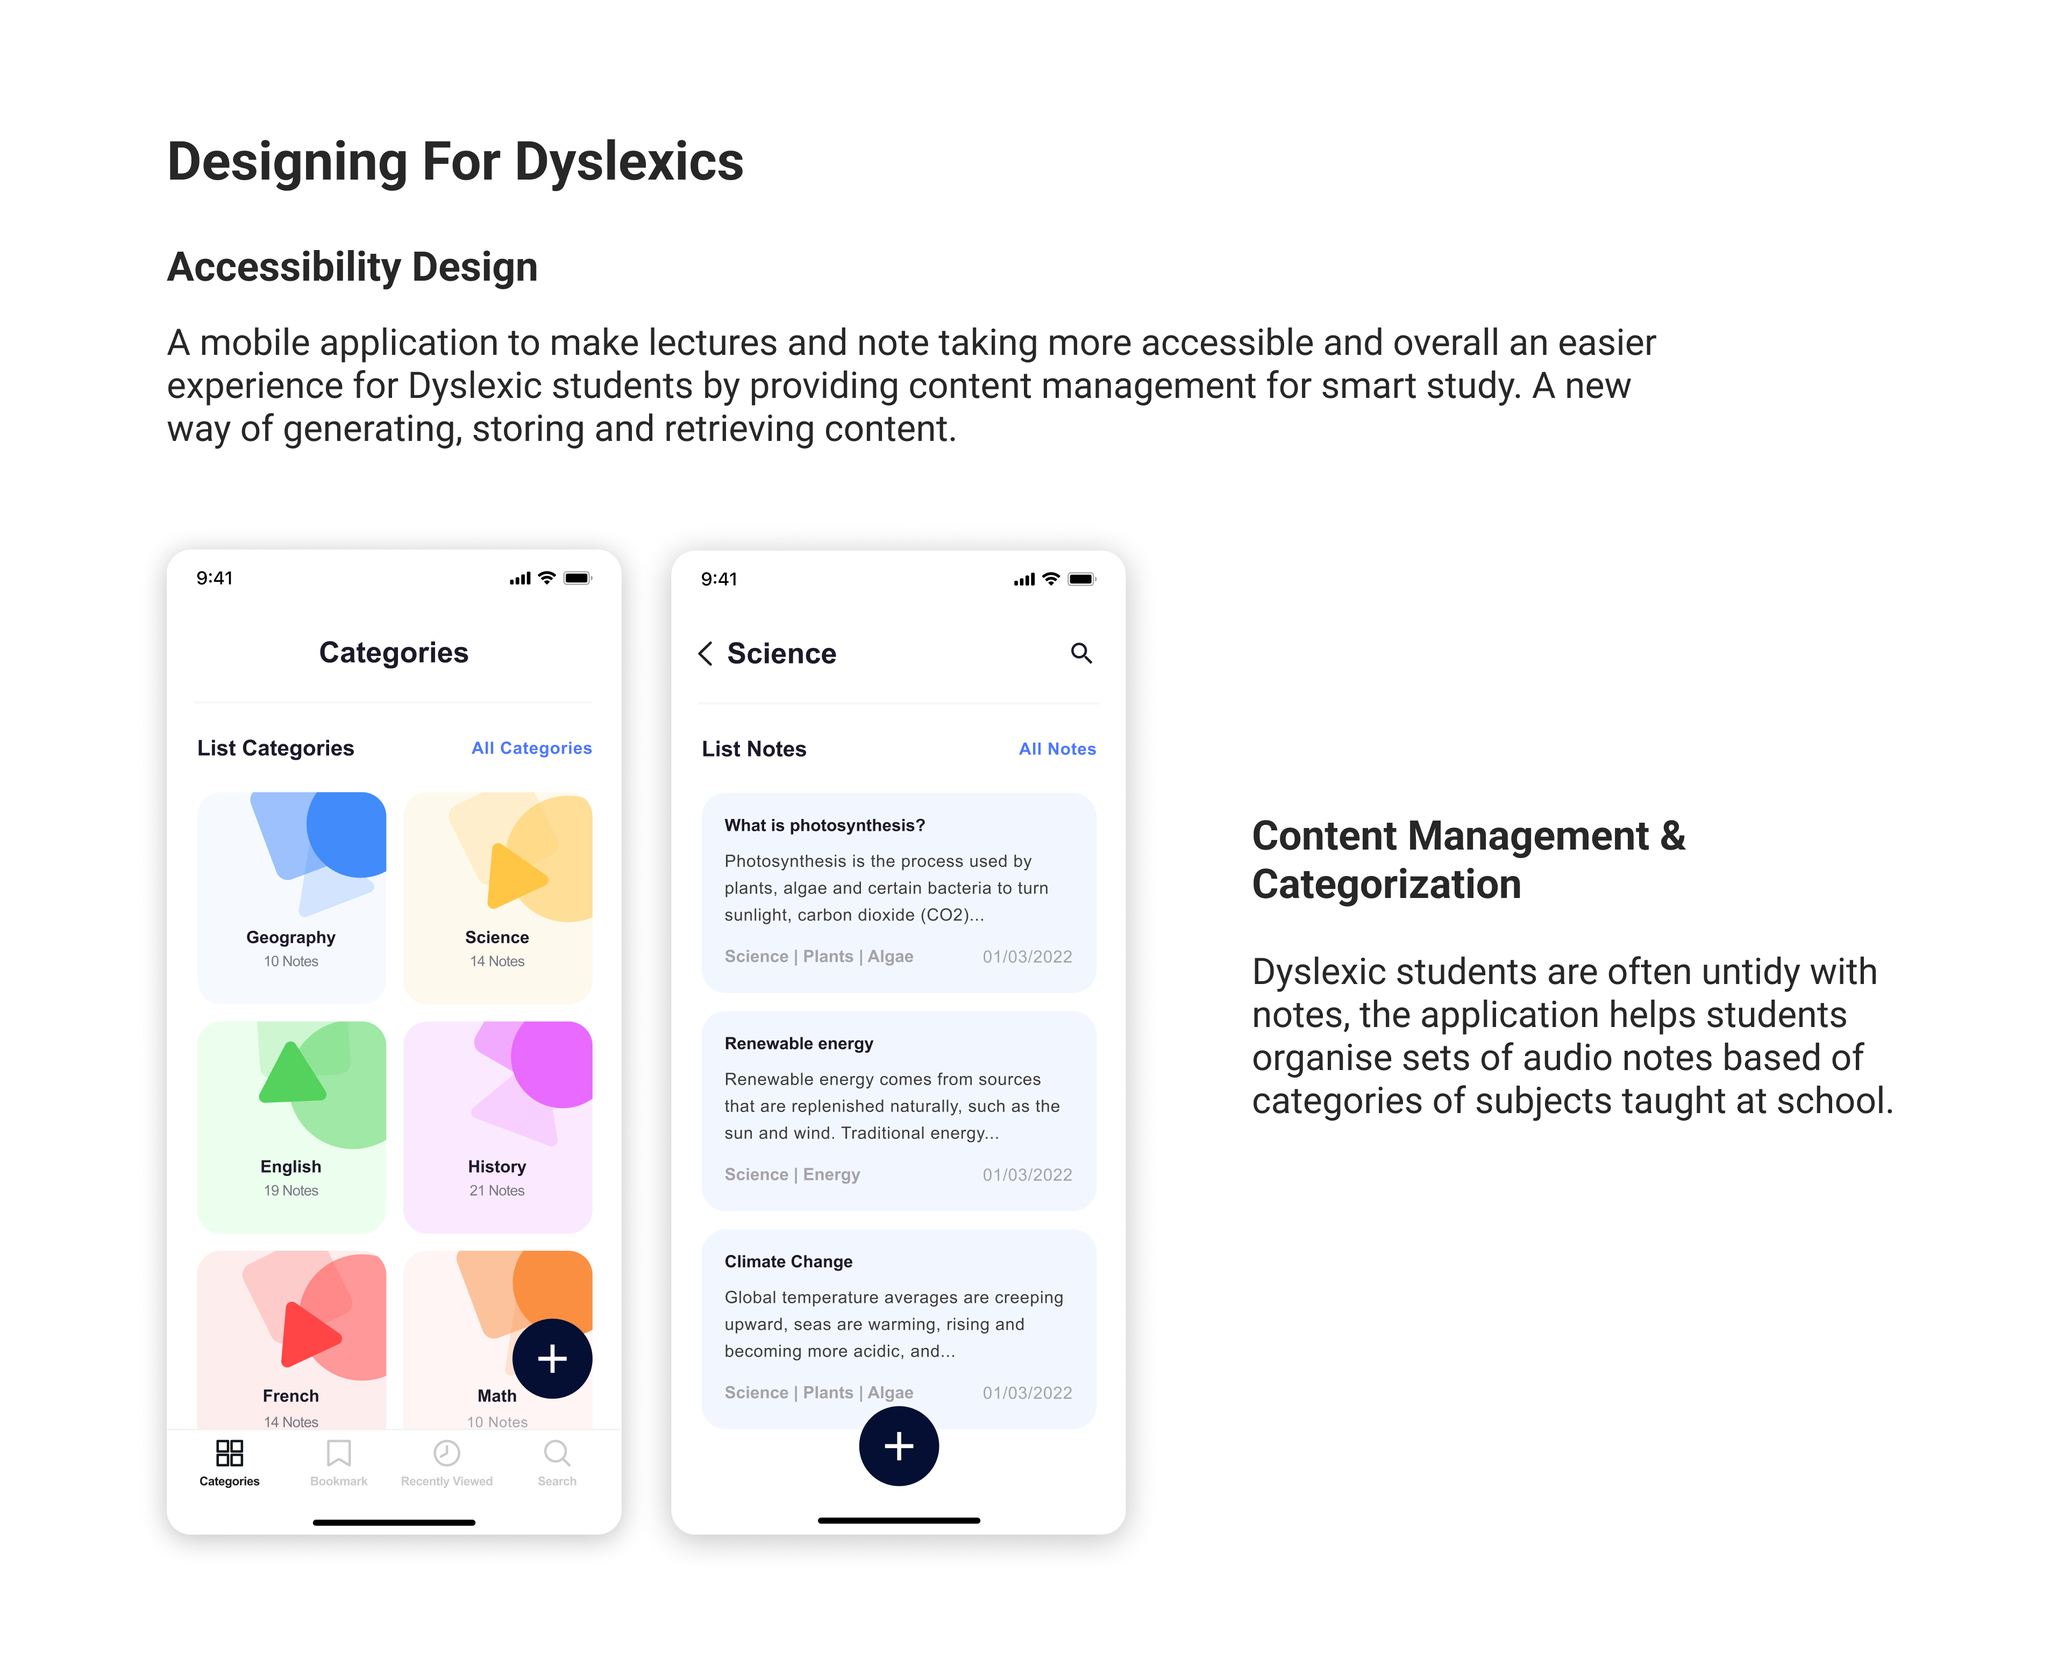
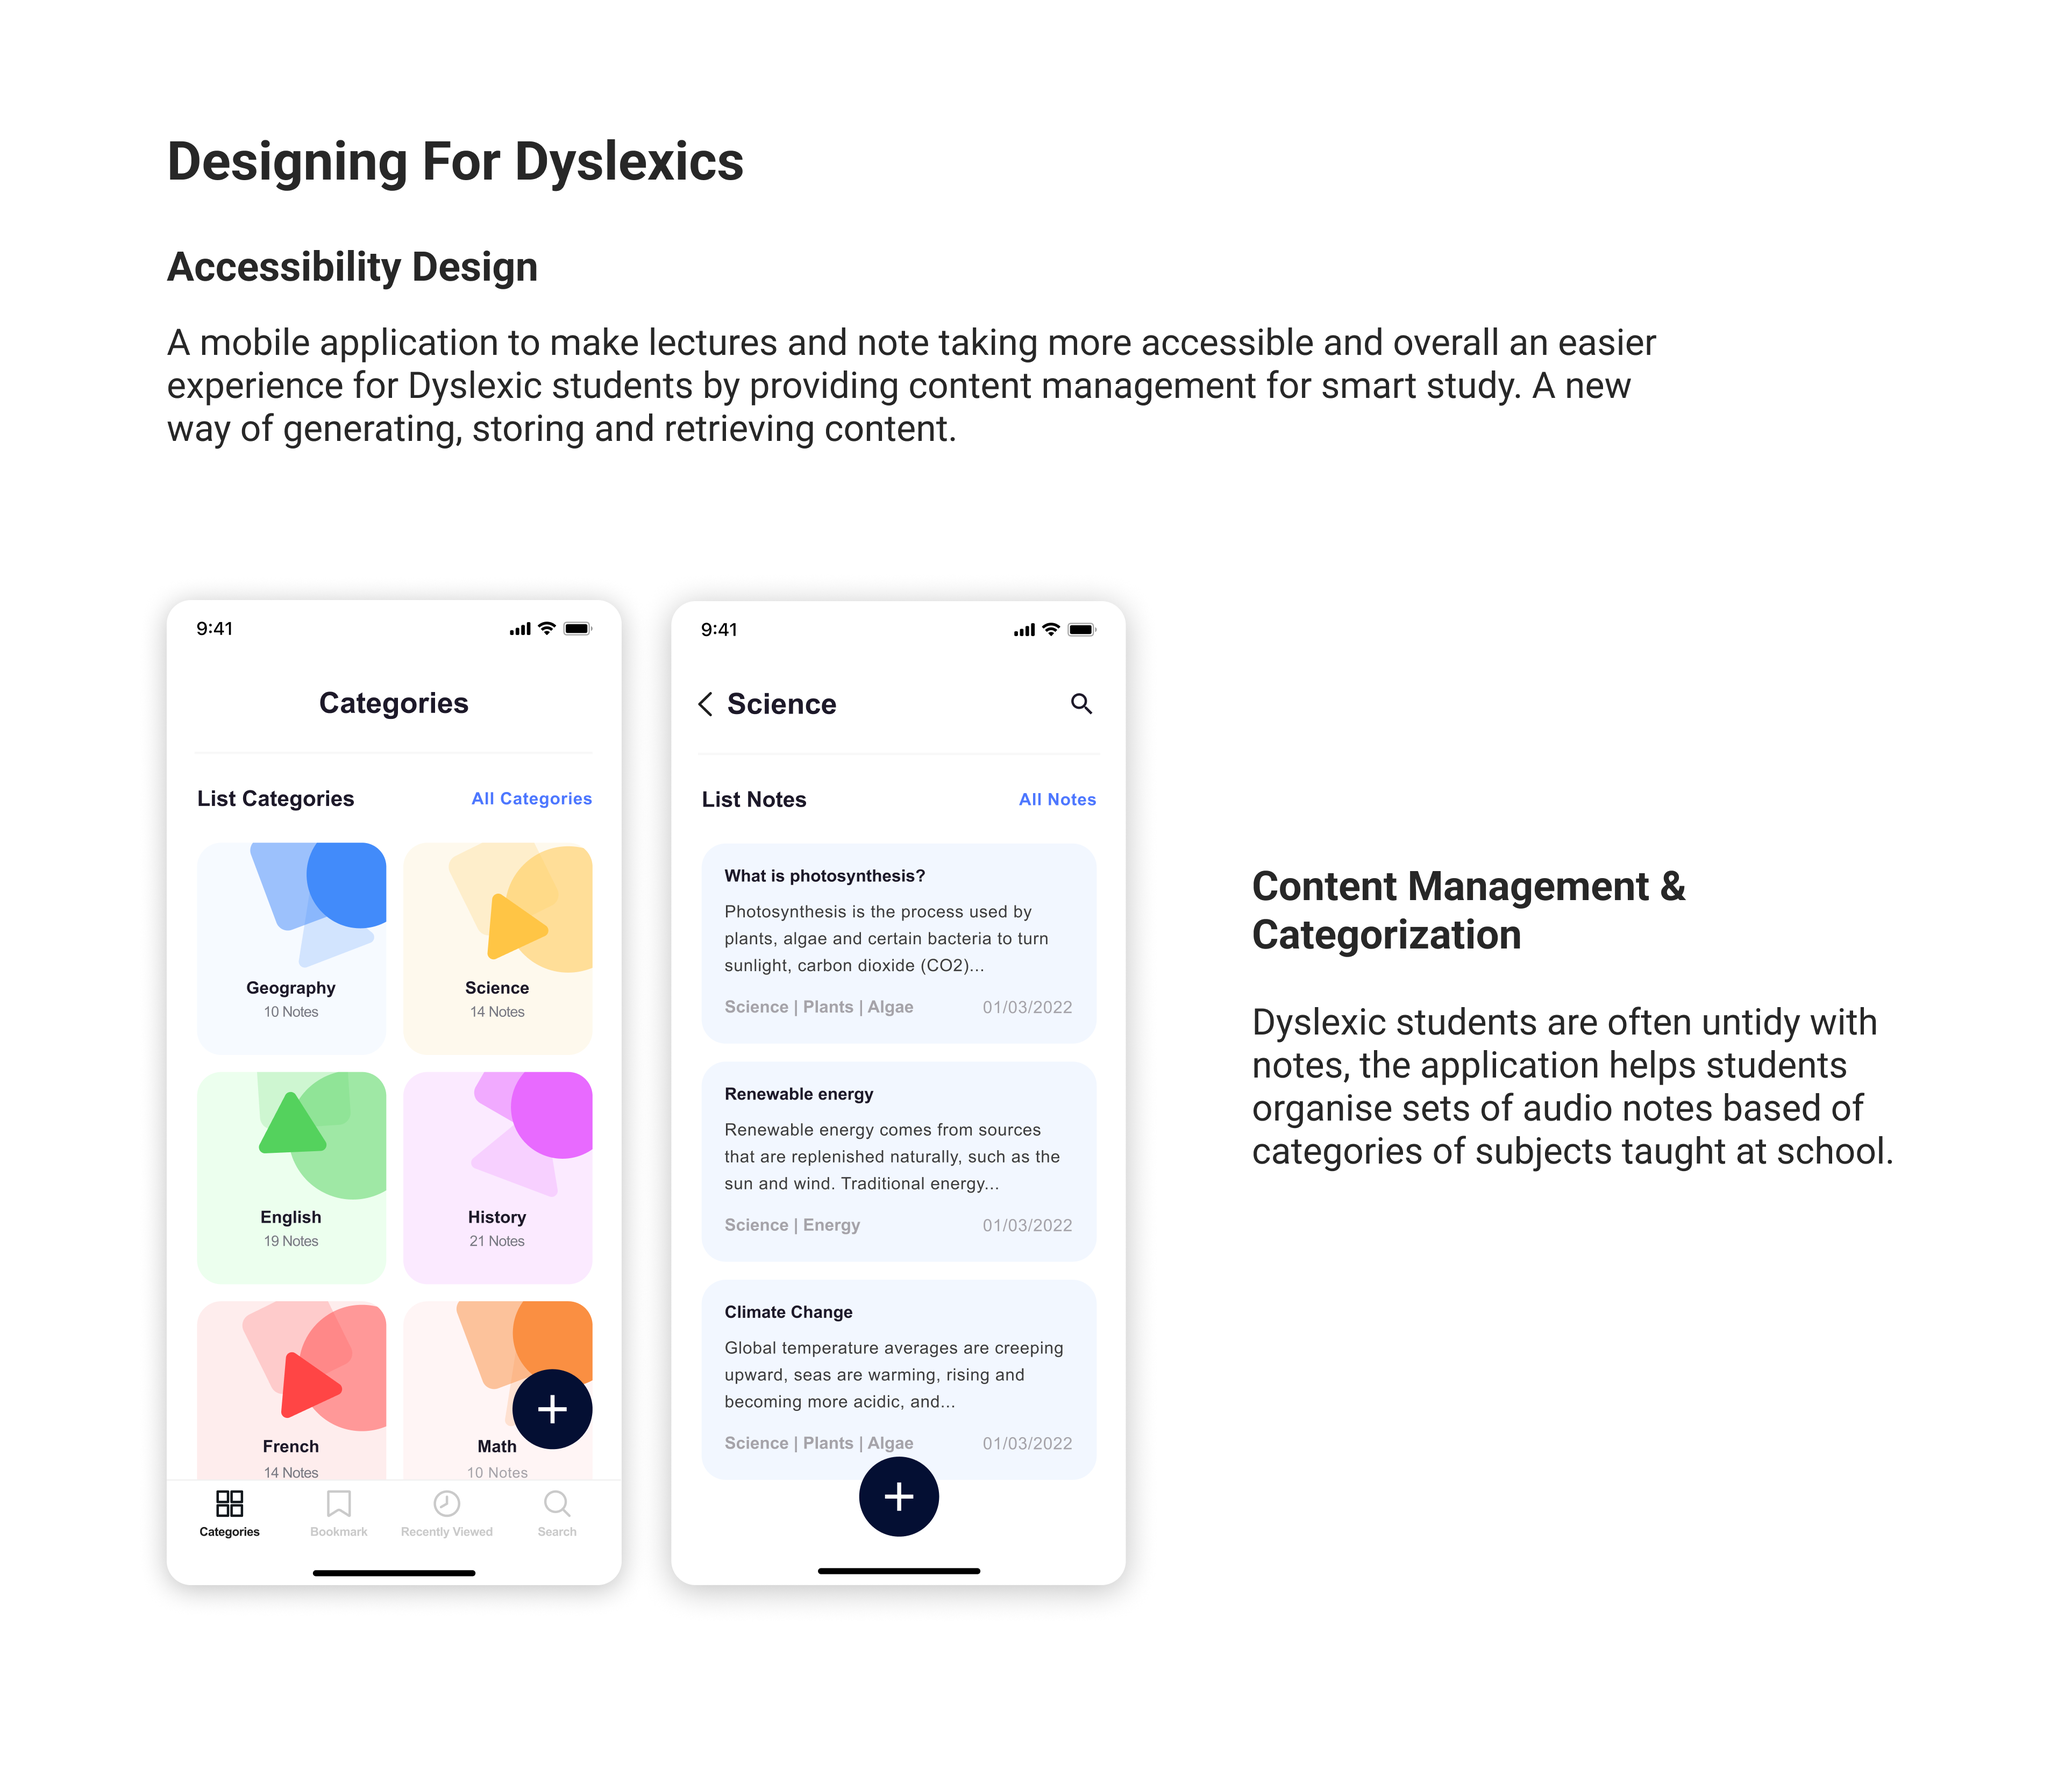
Lexino Update

diff --git a/work7.html b/work7.html
@@ -49,7 +49,7 @@
         <h1 class="about-me-name"><class="name">Lexino</h1> 
         <p class="case-study-description">Designing a tool to help Dyslexic school children learn and follow class lectures the same way their friends do.
         <figure>
-            <img src="./images/Lexino_Banner.png" alt="Trulli" style="width:100%">
+            <img src="./images/LexinoA1.png" alt="Trulli" style="width:100%">
         </figure>
         <p class="case-study-description"> Creating Equity For Dyslexic School Children
         <p class="p1">Dyslexia is a cognitive learning disability where the brain has difficulty with phonological processing, 
